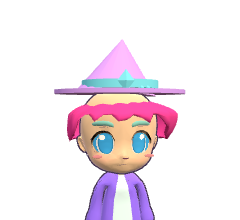
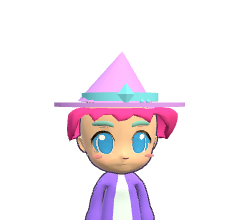
Cover remaining headwear gaps and remove empty hats notice

Changed region(s): [[0.2042, 0.1636, 0.7875, 0.5182]]

diff --git a/tests/playtest-fixes.test.ts b/tests/playtest-fixes.test.ts
@@ -288,7 +288,9 @@ test("5. saving a guest to an email that already has a character never swaps the
   try {
     const email = "daniel@example.test";
     const first = s.community.join(consent);
-    s.store.db.prepare("UPDATE players SET name=? WHERE id=?").run("Daniel",first.me.id); // Existing guest name remains intact.
+    s.store.db
+      .prepare("UPDATE players SET name=? WHERE id=?")
+      .run("Daniel", first.me.id); // Existing guest name remains intact.
     await s.community.requestCode(first.me.id, email);
     const owner = s.community.verifyCode(email, emailedCode(s, email));
     assert.equal(owner.me.id, first.me.id, "a new email keeps the character");
@@ -338,7 +340,11 @@ test("5. saving a guest to an email that already has a character never swaps the
 
 test("6. a claimed daily hat is listed with the headwear", () => {
   const save = fresh();
-  assert.match(hatShelf(save), /No hats yet/);
+  assert.equal(
+    hatShelf(save),
+    "",
+    "empty reward collection adds no distracting panel",
+  );
   assert.equal(claimGift(save, 0, "2026-10-04"), true);
   const shelf = hatShelf(save);
   assert.match(
@@ -347,6 +353,7 @@ test("6. a claimed daily hat is listed with the headwear", () => {
   );
   assert.match(shelf, /<button data-hat="0" aria-pressed="false">No hat</);
   assert.doesNotMatch(shelf, /Sprout/, "hats not yet earned are not offered");
+  assert.doesNotMatch(shelf, /Your hats|Selected:|No hats yet|hat-shelf/);
 });
 
 test("8. a walk to a chosen spot counts only that spot as visited", () => {

diff --git a/src/wardrobe.ts b/src/wardrobe.ts
@@ -326,11 +326,8 @@ export function hatShelf(p: {
   const owned = hatNames
     .map((name, index) => ({ name, index }))
     .filter(({ index }) => !index || p.unlockedHats.includes(index));
-  return `<section class="hat-shelf" aria-label="Your hats"><h3>Your hats</h3>${!p.hat && p.hair !== undefined ? `<p class="collection-note">Selected: ${hairNames[p.hair]}</p>` : ""}${
-    owned.length > 1
-      ? `<div class="hat-options">${owned.map(({ name, index }) => `<button data-hat="${index}" aria-pressed="${p.hat === index}">${name}${p.hat === index && index ? " · wearing" : ""}</button>`).join("")}</div><p class="collection-note">Hats sit on top of any hairstyle. Trying a hairstyle below takes the hat off.</p>`
-      : '<p class="collection-note">No hats yet. Pick a free one at the Mama Shop. Existing reward hats stay in your collection.</p>'
-  }</section>`;
+  if (owned.length <= 1) return "";
+  return `<div class="hat-options" role="group" aria-label="Reward hats">${owned.map(({ name, index }) => `<button data-hat="${index}" aria-pressed="${p.hat === index}">${name}${p.hat === index && index ? " · wearing" : ""}</button>`).join("")}</div>`;
 }
 
 export function outfitPreviewImage(look: Look) {

diff --git a/src/character.ts b/src/character.ts
@@ -661,7 +661,7 @@ export function applyLook(
         ].includes(gear)) ||
       hair.hood ||
       (headSet >= 0 &&
-        ["mage", "ranger", "trainer", "academy", "otter", "neighbour"].includes(
+        ["mage", "ranger", "trainer", "otter", "neighbour"].includes(
           legendarySets[headSet].design.costume,
         )) ||
       (classHeadVisible &&
@@ -692,9 +692,7 @@ export function applyLook(
     seatHeadwear(
       (group) => costumeHead(group, legendarySets[headSet]),
       ["royal", "knight"].includes(legendarySets[headSet].design.costume),
-      ["apprentice-mage", "moon-student", "void-deck-weekend"].includes(
-        legendarySets[headSet].id,
-      )
+      ["mage", "neighbour"].includes(legendarySets[headSet].design.costume)
         ? 1.59
         : 1.7,
     );

diff --git a/src/original-costumes.ts b/src/original-costumes.ts
@@ -106,10 +106,11 @@ export function originalHead(g: Group, s: StyleSet) {
     part(g, "box", [0, 1.74, 0.32], [0.56, 0.065, 0.1], s.color);
     part(g, "oct", [-0.25, 1.75, 0.38], [0.065, 0.08, 0.025], s.accent);
   } else if (kind === "academy") {
-    ball(g, [0.09, 1.73, -0.07], [0.44, 0.11, 0.37], s.color, {
+    // Seat the beret into the hair without moving the glasses below it.
+    ball(g, [0.09, 1.65, -0.07], [0.44, 0.11, 0.37], s.color, {
       rot: [0, 0, -0.14],
     });
-    part(g, "box", [0.12, 1.84, -0.07], [0.035, 0.075, 0.035], s.accent);
+    part(g, "box", [0.12, 1.76, -0.07], [0.035, 0.075, 0.035], s.accent);
     for (const side of [-1, 1])
       part(
         g,

diff --git a/tests/mobile-lobby-fixture.ts b/tests/mobile-lobby-fixture.ts
@@ -204,6 +204,7 @@ export function mobileLobbyFixture(
       find('[data-try-slot="hairstyle"][data-try-index="112"]').click();
       check(JSON.parse(localStorage.getItem('darecade-v1')).baseHair===112, 'hairstyle equips independently');
       find('[data-wardrobe-section="Headwear"]').click();
+      check(!find('.hat-shelf') && !find('#modal-body').textContent.includes('No hats yet'), 'headwear collection has no empty hats notice');
       find('[data-try-slot="hair"][data-try-index="157"]').click();
       check(JSON.parse(localStorage.getItem('darecade-v1')).baseHair===112, 'headwear preserves hairstyle');
       find('[data-wardrobe-section="Clothes"]').click();

diff --git a/src/wardrobe.css b/src/wardrobe.css
@@ -341,21 +341,11 @@ dialog:has(.wardrobe-layout) {
   }
 }
 /* Daily-gift and reward hats, listed with the headwear they sit on. */
-.hat-shelf {
-  margin: 12px 0;
-  padding: 12px;
-  border-radius: 14px;
-  background: #f4f0ff;
-}
-.hat-shelf h3 {
-  margin: 0 0 8px;
-  font-size: 16px;
-}
-.hat-shelf .hat-options button {
+.wardrobe-controls > .hat-options button {
   min-height: 44px;
   font-size: 13px;
 }
-.hat-shelf [aria-pressed="true"] {
+.wardrobe-controls > .hat-options [aria-pressed="true"] {
   border-color: #7a5cd6;
   background: #e4dcff;
 }

diff --git a/docs/wardrobe/headwear-coverage-cleanup.md b/docs/wardrobe/headwear-coverage-cleanup.md
@@ -1,0 +1,36 @@
+# Headwear coverage and collection cleanup
+
+Arcane Librarian, Aurora Oracle and Crescent crystal tiara now use the lower
+brim seat already verified for Apprentice Mage and Moon Academy. The seat is
+selected by their shared mage geometry instead of maintaining an incomplete
+list of item IDs.
+
+Moonbell's beret and top pin move down 0.08 model units. Its round glasses keep
+their original placement. Hair retains its full volume before the existing
+headwear fitting pass, filling the exposed side of the asymmetric beret while
+still giving the headwear priority.
+
+The empty **Your hats** panel, selected-item message and shop reminder are
+removed. Earned reward hats remain available as compact equip buttons. No item
+IDs, unlocks, saved looks or progression fields change.
+
+![Before](evidence/coverage-before.png)
+
+![After](evidence/coverage-after.png)
+
+[Crescent headwear after fitting](evidence/crescent-headwear-after.png)
+
+The headwear gallery covers all eight hair shapes on both bodies. The review
+script accepts `HEADWEAR_REVIEW_IDS` as three comma-separated set IDs, for
+example `arcane-librarian,aurora-oracle,moonbell-society`. Catalogue thumbnails
+are regenerated from the same meshes. Regression checks verify that the empty
+panel is absent and earned hats remain available.
+
+Collection checks at [390 × 844](evidence/headwear-clean-portrait.png),
+[844 × 390](evidence/headwear-clean-landscape.png), and
+[1280 × 800](evidence/headwear-clean-desktop.png) confirm the notice is absent.
+Mobile checks use Chrome viewport emulation rather than a physical phone.
+
+Validation: all 496 application/browser tests and 15 Cloudflare tests passed
+without skips. The existing earned-hat test verifies the empty state emits no
+panel and claimed hats still have their equip/remove controls.
